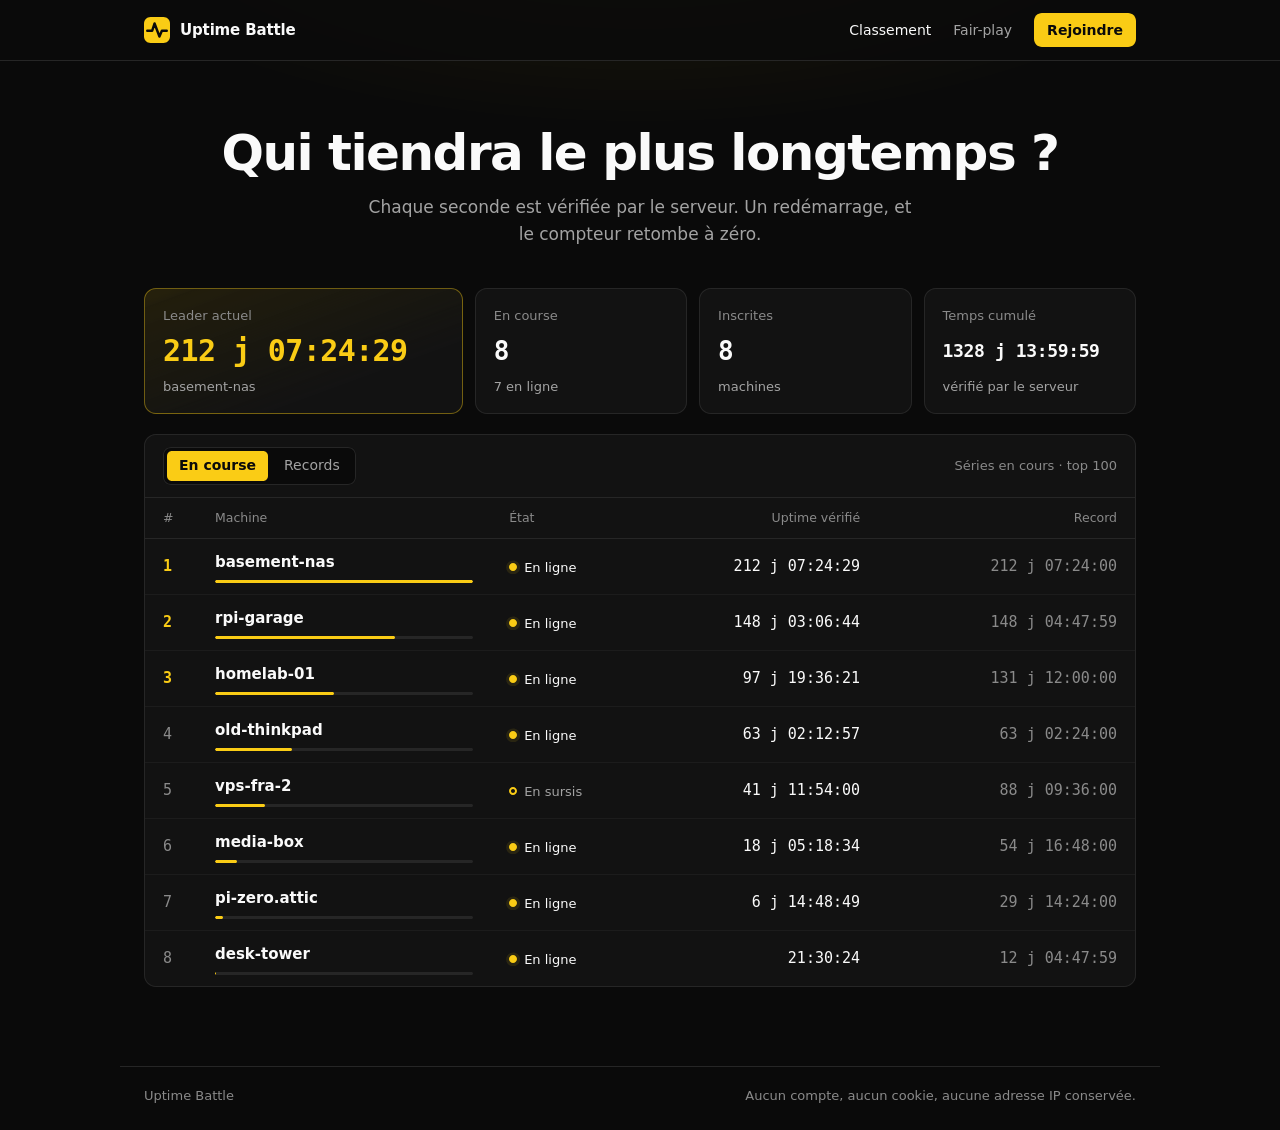
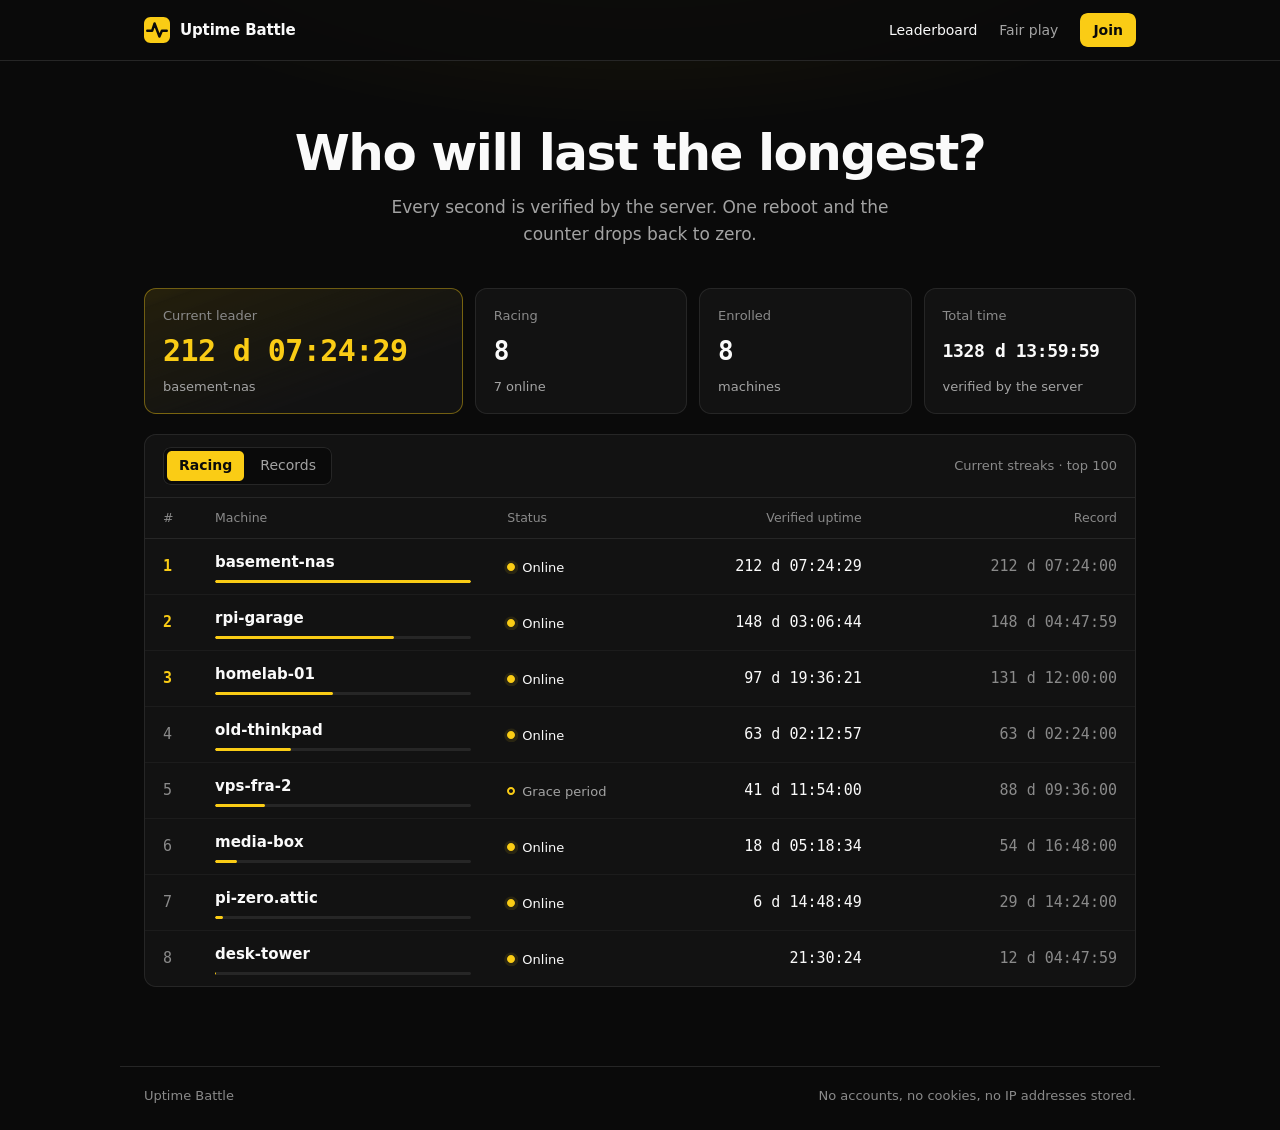
Change ui language

diff --git a/internal/server/web/templates/board.html b/internal/server/web/templates/board.html
@@ -1,39 +1,39 @@
 {{define "content"}}
 <section class="hero">
-  <h1>Qui tiendra le plus longtemps&nbsp;?</h1>
-  <p>Chaque seconde est vérifiée par le serveur. Un redémarrage, et le compteur retombe à zéro.</p>
+  <h1>Who will last the longest?</h1>
+  <p>Every second is verified by the server. One reboot and the counter drops back to zero.</p>
 </section>
 
-<section class="tiles" aria-label="Chiffres clés">
+<section class="tiles" aria-label="Key figures">
   <div class="tile tile-hero">
-    <span class="tile-label">Leader actuel</span>
+    <span class="tile-label">Current leader</span>
     {{if .Snap.Racing}}{{with index .Snap.Racing 0}}
     <span class="tile-value mono" {{if .Online}}data-tick="{{.StreakMs}}"{{end}}>{{duration .StreakMs}}</span>
     <a class="tile-sub" href="/m/{{.Name}}">{{.Name}}</a>
     {{end}}{{else}}
     <span class="tile-value mono">--:--:--</span>
-    <span class="tile-sub">Place à prendre</span>
+    <span class="tile-sub">Up for grabs</span>
     {{end}}
   </div>
-  <div class="tile"><span class="tile-label">En course</span><span class="tile-value mono">{{.Racing}}</span><span class="tile-sub">{{.Snap.Online}} en ligne</span></div>
-  <div class="tile"><span class="tile-label">Inscrites</span><span class="tile-value mono">{{.Snap.Totals.Machines}}</span><span class="tile-sub">machines</span></div>
-  <div class="tile"><span class="tile-label">Temps cumulé</span><span class="tile-value mono tile-value-sm">{{duration .Snap.Totals.TotalMs}}</span><span class="tile-sub">vérifié par le serveur</span></div>
+  <div class="tile"><span class="tile-label">Racing</span><span class="tile-value mono">{{.Racing}}</span><span class="tile-sub">{{.Snap.Online}} online</span></div>
+  <div class="tile"><span class="tile-label">Enrolled</span><span class="tile-value mono">{{.Snap.Totals.Machines}}</span><span class="tile-sub">machines</span></div>
+  <div class="tile"><span class="tile-label">Total time</span><span class="tile-value mono tile-value-sm">{{duration .Snap.Totals.TotalMs}}</span><span class="tile-sub">verified by the server</span></div>
 </section>
 
 <section class="panel">
   <div class="panel-head">
     <div class="tabs">
-      <a href="/" {{if eq .Tab "racing"}}aria-current="page"{{end}}>En course</a>
+      <a href="/" {{if eq .Tab "racing"}}aria-current="page"{{end}}>Racing</a>
       <a href="/records" {{if eq .Tab "records"}}aria-current="page"{{end}}>Records</a>
     </div>
-    <span class="muted small">{{if eq .Tab "racing"}}Séries en cours{{else}}Meilleures séries de tous les temps{{end}} · top 100</span>
+    <span class="muted small">{{if eq .Tab "racing"}}Current streaks{{else}}Best streaks of all time{{end}} · top 100</span>
   </div>
   {{if .Rows}}
   <table class="board">
     <thead><tr>
       <th class="c-rank" scope="col">#</th><th scope="col">Machine</th>
-      <th class="c-status" scope="col">État</th>
-      <th class="c-num" scope="col">{{if eq .Tab "racing"}}Uptime vérifié{{else}}Record{{end}}</th>
+      <th class="c-status" scope="col">Status</th>
+      <th class="c-num" scope="col">{{if eq .Tab "racing"}}Verified uptime{{else}}Record{{end}}</th>
       {{if eq .Tab "racing"}}<th class="c-num c-opt" scope="col">Record</th>{{end}}
     </tr></thead>
     <tbody>
@@ -45,9 +45,9 @@
         <progress class="bar" max="100" value="{{pct .BarPct}}" aria-hidden="true"></progress>
       </td>
       <td class="c-status">
-        {{if .Online}}<span class="st st-on"><i></i>En ligne</span>
-        {{else if .Racing}}<span class="st st-wait"><i></i>En sursis</span>
-        {{else}}<span class="st st-off"><i></i>Hors course</span>{{end}}
+        {{if .Online}}<span class="st st-on"><i></i>Online</span>
+        {{else if .Racing}}<span class="st st-wait"><i></i>Grace period</span>
+        {{else}}<span class="st st-off"><i></i>Out of the race</span>{{end}}
       </td>
       {{if eq $.Tab "racing"}}
       <td class="c-num mono" {{if .Online}}data-tick="{{.StreakMs}}"{{end}}>{{duration .StreakMs}}</td>
@@ -61,9 +61,9 @@
   </table>
   {{else}}
   <div class="empty">
-    <h2>{{if eq .Tab "racing"}}Personne en course pour l'instant{{else}}Aucun record pour l'instant{{end}}</h2>
-    <p>Installez l'agent et prenez la première place.</p>
-    <a class="btn" href="/install">Installer l'agent</a>
+    <h2>{{if eq .Tab "racing"}}Nobody is racing yet{{else}}No records yet{{end}}</h2>
+    <p>Install the agent and take first place.</p>
+    <a class="btn" href="/install">Install the agent</a>
   </div>
   {{end}}
 </section>

diff --git a/internal/server/web/templates/fairplay.html b/internal/server/web/templates/fairplay.html
@@ -1,20 +1,20 @@
 {{define "content"}}
 <section class="hero hero-left">
-  <h1>Fair-play</h1>
-  <p>Votre machine vous appartient, donc vous pouvez modifier l'agent. Le jeu part de ce principe : le serveur ne croit rien sur parole.</p>
+  <h1>Fair play</h1>
+  <p>Your machine belongs to you, so you can modify the agent. The game starts from that principle: the server takes nothing on trust.</p>
 </section>
 
 <section class="grid2">
-  <article class="card"><h2>Le score, c'est le temps observé</h2><p>Le classement ne lit jamais l'uptime annoncé. Il mesure le temps pendant lequel le serveur vous a vu répondre, avec sa propre horloge. Une machine qui annonce 400 jours démarre à zéro comme les autres.</p></article>
-  <article class="card"><h2>Pas de voyage dans le temps</h2><p>Personne ne gagne plus d'une seconde par seconde, et personne ne peut dépasser sa date d'inscription. Pour afficher un an, il faut tenir un an.</p></article>
-  <article class="card"><h2>Chaque battement est signé</h2><p>La clé Ed25519 est générée sur votre machine et n'en sort pas. Le serveur envoie un défi à usage unique, valable une minute. Un battement ne peut être ni forgé, ni rejoué, ni préparé à l'avance.</p></article>
-  <article class="card"><h2>Ce qui remet à zéro</h2><p>Un nouvel identifiant de démarrage du noyau, un uptime qui recule ou qui n'avance pas au rythme de l'horloge du serveur, ou plus de {{.MaxGap}} minutes de silence. Une panne du serveur ne vous pénalise pas.</p></article>
-  <article class="card"><h2>Un démarrage, une machine</h2><p>Une même session de noyau ne peut pas courir sous deux noms. Une clé copiée sur deux machines se sabote toute seule : les identifiants de démarrage alternent et la série repart à zéro.</p></article>
-  <article class="card"><h2>Inscriptions freinées</h2><p>Chaque inscription coûte une preuve de travail et reste limitée par adresse IP. Remplir le classement de faux comptes n'apporte rien : ils partent tous de zéro.</p></article>
+  <article class="card"><h2>The score is the observed time</h2><p>The leaderboard never reads the reported uptime. It measures how long the server has seen you respond, using its own clock. A machine that reports 400 days starts at zero like everyone else.</p></article>
+  <article class="card"><h2>No time travel</h2><p>Nobody gains more than one second per second, and nobody can go back past their enrolment date. To show a year, you have to last a year.</p></article>
+  <article class="card"><h2>Every heartbeat is signed</h2><p>The Ed25519 key is generated on your machine and never leaves it. The server sends a single-use challenge, valid for one minute. A heartbeat cannot be forged, replayed or prepared in advance.</p></article>
+  <article class="card"><h2>What resets the counter</h2><p>A new kernel boot id, an uptime that goes backwards or drifts from the server clock, or more than {{.MaxGap}} minutes of silence. A server outage does not penalize you.</p></article>
+  <article class="card"><h2>One boot, one machine</h2><p>A single kernel session cannot race under two names. A key copied to two machines sabotages itself: the boot ids alternate and the streak resets to zero.</p></article>
+  <article class="card"><h2>Throttled enrolment</h2><p>Each enrolment costs a proof of work and is limited per IP address. Filling the leaderboard with fake accounts gains nothing: they all start from zero.</p></article>
 </section>
 
 <section class="panel panel-text">
-  <h2>La limite, sans détour</h2>
-  <p>Un agent modifié peut mentir sur l'identifiant de démarrage et masquer un redémarrage rapide. Il peut aussi tourner sur un serveur très disponible plutôt que sur votre PC. Sans puce de confiance, aucun logiciel ne peut l'empêcher. Mais ce tricheur doit quand même garder un programme en ligne, sans interruption, pendant toute la durée affichée. Il n'obtient aucun raccourci dans le temps.</p>
+  <h2>The limit, plainly</h2>
+  <p>A modified agent can lie about the boot id and hide a quick reboot. It can also run on a highly available server instead of your PC. Without a trusted chip, no software can prevent this. But the cheater must still keep a program online, without interruption, for the whole displayed duration. There is no shortcut in time.</p>
 </section>
 {{end}}

diff --git a/internal/server/web/templates/install.html b/internal/server/web/templates/install.html
@@ -1,42 +1,42 @@
 {{define "content"}}
 <section class="hero hero-left">
-  <h1>Installer l'agent</h1>
-  <p>Un binaire statique, sans dépendance, qui tourne sans privilèges et ne lit que l'uptime et l'identifiant de démarrage du noyau. Linux amd64, arm64 et armv7.</p>
+  <h1>Install the agent</h1>
+  <p>A static binary with no dependencies. It runs without privileges and only reads the uptime and the kernel boot id. Linux amd64, arm64 and armv7.</p>
 </section>
 
 <div class="notes">
-  <p><strong>Choisissez bien votre nom.</strong> De 3 à 32 caractères parmi <code>a-z A-Z 0-9 _ . -</code>, public et définitif. L'inscription résout un petit calcul : comptez quelques secondes.</p>
+  <p><strong>Choose your name carefully.</strong> 3 to 32 characters among <code>a-z A-Z 0-9 _ . -</code>, public and permanent. Enrolment solves a small puzzle, so allow a few seconds.</p>
 </div>
 
 <section class="method">
-  <div class="method-head"><span class="pill">Recommandé</span><h2>systemd</h2></div>
-  <p>Le service démarre avec la machine et envoie un battement chaque minute. À lancer en root.</p>
-  <pre class="code"><code>curl -fsSL {{.PublicURL}}/install.sh | sudo sh -s -- --method systemd --name VOTRE-NOM</code></pre>
+  <div class="method-head"><span class="pill">Recommended</span><h2>systemd</h2></div>
+  <p>The service starts with the machine and sends a heartbeat every minute. Run as root.</p>
+  <pre class="code"><code>curl -fsSL {{.PublicURL}}/install.sh | sudo sh -s -- --method systemd --name YOUR-NAME</code></pre>
 </section>
 
 <section class="method">
   <div class="method-head"><h2>Cron</h2></div>
-  <p>Sans service ni root : un battement toutes les cinq minutes depuis votre crontab utilisateur.</p>
-  <pre class="code"><code>curl -fsSL {{.PublicURL}}/install.sh | sh -s -- --method cron --name VOTRE-NOM</code></pre>
+  <p>No service and no root: a heartbeat every five minutes from your user crontab.</p>
+  <pre class="code"><code>curl -fsSL {{.PublicURL}}/install.sh | sh -s -- --method cron --name YOUR-NAME</code></pre>
 </section>
 
 <section class="method">
   <div class="method-head"><h2>Docker</h2></div>
-  <p>Le conteneur lit l'uptime de l'hôte. Le volume garde la clé de la machine : le perdre, c'est perdre son identité.</p>
+  <p>The container reads the uptime of the host. The volume keeps the machine key: if you lose it, you lose the identity of the machine.</p>
   <pre class="code"><code>docker run -d --name uptime-battle-agent --restart unless-stopped \
   --read-only --cap-drop ALL --security-opt no-new-privileges \
-  -e UB_SERVER={{.PublicURL}} -e UB_NAME=VOTRE-NOM \
+  -e UB_SERVER={{.PublicURL}} -e UB_NAME=YOUR-NAME \
   -v uptime-battle:/var/lib/uptime-battle \
   {{.AgentImage}}</code></pre>
 </section>
 
 <section class="method">
-  <div class="method-head"><h2>Manuel</h2></div>
-  <p>Pour relire avant d'exécuter : téléchargez le binaire et vérifiez son empreinte.</p>
+  <div class="method-head"><h2>Manual</h2></div>
+  <p>To review everything before running it: download the binary and verify its checksum.</p>
   <pre class="code"><code>curl -fsSLO {{.PublicURL}}/dl/uptime-battle-agent-linux-amd64
 curl -fsSL {{.PublicURL}}/dl/SHA256SUMS | sha256sum -c --ignore-missing
 chmod +x uptime-battle-agent-linux-amd64
-./uptime-battle-agent-linux-amd64 enroll --server {{.PublicURL}} --name VOTRE-NOM
+./uptime-battle-agent-linux-amd64 enroll --server {{.PublicURL}} --name YOUR-NAME
 ./uptime-battle-agent-linux-amd64 run</code></pre>
 </section>
 {{end}}

diff --git a/internal/server/web/templates/machine.html b/internal/server/web/templates/machine.html
@@ -1,34 +1,34 @@
 {{define "content"}}
-<p class="crumb"><a href="/">Classement</a> / {{.M.Name}}</p>
+<p class="crumb"><a href="/">Leaderboard</a> / {{.M.Name}}</p>
 <div class="title-row">
   <h1>{{.M.Name}}</h1>
-  {{if .Online}}<span class="st st-on"><i></i>En ligne</span>
-  {{else if .Alive}}<span class="st st-wait"><i></i>En sursis</span>
-  {{else}}<span class="st st-off"><i></i>Hors course</span>{{end}}
+  {{if .Online}}<span class="st st-on"><i></i>Online</span>
+  {{else if .Alive}}<span class="st st-wait"><i></i>Grace period</span>
+  {{else}}<span class="st st-off"><i></i>Out of the race</span>{{end}}
 </div>
 
-<section class="tiles" aria-label="Statistiques de la machine">
+<section class="tiles" aria-label="Machine statistics">
   <div class="tile tile-hero">
-    <span class="tile-label">Uptime vérifié</span>
+    <span class="tile-label">Verified uptime</span>
     <span class="tile-value mono" {{if .Online}}data-tick="{{.StreakMs}}"{{end}}>{{duration .StreakMs}}</span>
-    <span class="tile-sub">{{if .Rank}}Rang {{.Rank}}{{else}}Non classée{{end}}</span>
+    <span class="tile-sub">{{if .Rank}}Rank {{.Rank}}{{else}}Unranked{{end}}</span>
   </div>
-  <div class="tile"><span class="tile-label">Record</span><span class="tile-value mono tile-value-sm">{{duration .M.BestMs}}</span><span class="tile-sub">meilleure série</span></div>
-  <div class="tile"><span class="tile-label">Temps cumulé</span><span class="tile-value mono tile-value-sm">{{duration .M.TotalMs}}</span><span class="tile-sub">toutes séries</span></div>
-  <div class="tile"><span class="tile-label">Uptime déclaré</span><span class="tile-value mono tile-value-sm">{{duration .M.LastUptime}}</span><span class="tile-sub">non vérifié, hors score</span></div>
+  <div class="tile"><span class="tile-label">Record</span><span class="tile-value mono tile-value-sm">{{duration .M.BestMs}}</span><span class="tile-sub">best streak</span></div>
+  <div class="tile"><span class="tile-label">Total time</span><span class="tile-value mono tile-value-sm">{{duration .M.TotalMs}}</span><span class="tile-sub">all streaks</span></div>
+  <div class="tile"><span class="tile-label">Reported uptime</span><span class="tile-value mono tile-value-sm">{{duration .M.LastUptime}}</span><span class="tile-sub">unverified, not scored</span></div>
 </section>
 
 <section class="panel">
-  <div class="panel-head"><h2>Séries terminées</h2><span class="muted small">Inscrite le {{datetime .M.CreatedAt}}</span></div>
+  <div class="panel-head"><h2>Finished streaks</h2><span class="muted small">Enrolled on {{datetime .M.CreatedAt}}</span></div>
   {{if .History}}
   <table class="board">
-    <thead><tr><th scope="col">Début</th><th class="c-opt" scope="col">Fin</th><th scope="col">Cause</th><th class="c-num" scope="col">Durée</th></tr></thead>
+    <thead><tr><th scope="col">Start</th><th class="c-opt" scope="col">End</th><th scope="col">Reason</th><th class="c-num" scope="col">Duration</th></tr></thead>
     <tbody>
     {{range .History}}
     <tr><td>{{datetime .Start}}</td><td class="c-opt">{{datetime .End}}</td><td>{{reason .Reason}}</td><td class="c-num mono">{{duration (sub .End .Start)}}</td></tr>
     {{end}}
     </tbody>
   </table>
-  {{else}}<div class="empty"><p>Aucune série terminée. Pourvu que ça dure.</p></div>{{end}}
+  {{else}}<div class="empty"><p>No finished streaks. Long may it last.</p></div>{{end}}
 </section>
 {{end}}

diff --git a/internal/server/web/templates/layout.html b/internal/server/web/templates/layout.html
@@ -1,10 +1,10 @@
 <!doctype html>
-<html lang="fr">
+<html lang="en">
 <head>
 <meta charset="utf-8">
 <meta name="viewport" content="width=device-width, initial-scale=1">
 <title>{{.Title}} · Uptime Battle</title>
-<meta name="description" content="Le classement des machines qui ne s'éteignent jamais.">
+<meta name="description" content="The leaderboard of machines that never shut down.">
 <meta name="color-scheme" content="dark">
 <link rel="icon" href="/static/logo.svg" type="image/svg+xml">
 <link rel="stylesheet" href="/static/app.css?v={{.AssetVersion}}">
@@ -14,10 +14,10 @@
 <header class="nav">
   <div class="wrap nav-in">
     <a class="brand" href="/"><img src="/static/logo.svg" alt="" width="26" height="26"><span>Uptime Battle</span></a>
-    <nav aria-label="Navigation principale">
-      <a href="/" {{if eq .Nav "board"}}aria-current="page"{{end}}>Classement</a>
-      <a href="/fair-play" {{if eq .Nav "fairplay"}}aria-current="page"{{end}}>Fair-play</a>
-      <a class="btn btn-sm" href="/install" {{if eq .Nav "install"}}aria-current="page"{{end}}>Rejoindre</a>
+    <nav aria-label="Main navigation">
+      <a href="/" {{if eq .Nav "board"}}aria-current="page"{{end}}>Leaderboard</a>
+      <a href="/fair-play" {{if eq .Nav "fairplay"}}aria-current="page"{{end}}>Fair play</a>
+      <a class="btn btn-sm" href="/install" {{if eq .Nav "install"}}aria-current="page"{{end}}>Join</a>
     </nav>
   </div>
 </header>
@@ -26,7 +26,7 @@
 </main>
 <footer class="wrap foot">
   <span>Uptime Battle</span>
-  <span>Aucun compte, aucun cookie, aucune adresse IP conservée.</span>
+  <span>No accounts, no cookies, no IP addresses stored.</span>
 </footer>
 </body>
 </html>

diff --git a/internal/server/web/static/app.js b/internal/server/web/static/app.js
@@ -6,7 +6,7 @@ function format(ms) {
   const s = Math.floor(ms / 1000);
   const d = Math.floor(s / 86400);
   const clock = `${pad(Math.floor(s / 3600) % 24)}:${pad(Math.floor(s / 60) % 60)}:${pad(s % 60)}`;
-  return d > 0 ? `${d} j ${clock}` : clock;
+  return d > 0 ? `${d} d ${clock}` : clock;
 }
 
 const counters = [...document.querySelectorAll("[data-tick]")].map((el) => ({ el, base: Number(el.dataset.tick) }));
@@ -28,11 +28,11 @@ for (const block of document.querySelectorAll("pre.code")) {
   const button = document.createElement("button");
   button.type = "button";
   button.className = "copy";
-  button.textContent = "Copier";
+  button.textContent = "Copy";
   button.addEventListener("click", async () => {
     await navigator.clipboard.writeText(block.querySelector("code").textContent);
-    button.textContent = "Copié";
-    setTimeout(() => (button.textContent = "Copier"), 1500);
+    button.textContent = "Copied";
+    setTimeout(() => (button.textContent = "Copy"), 1500);
   });
   block.append(button);
 }

diff --git a/internal/server/web/templates/notfound.html b/internal/server/web/templates/notfound.html
@@ -1,7 +1,7 @@
 {{define "content"}}
 <div class="empty empty-page">
   <h1>404</h1>
-  <p>Cette page a redémarré, et elle n'est jamais revenue.</p>
-  <a class="btn" href="/">Retour au classement</a>
+  <p>This page rebooted and never came back.</p>
+  <a class="btn" href="/">Back to the leaderboard</a>
 </div>
 {{end}}

diff --git a/internal/server/web.go b/internal/server/web.go
@@ -34,22 +34,22 @@ var agentFiles = map[string]bool{
 type page struct{ tmpl *template.Template }
 
 var reasonLabels = map[string]string{
-	ReasonReboot:  "Redémarrage",
-	ReasonGap:     "Silence trop long",
-	ReasonAnomaly: "Uptime incohérent",
+	ReasonReboot:  "Reboot",
+	ReasonGap:     "Silent for too long",
+	ReasonAnomaly: "Inconsistent uptime",
 }
 
 func formatDuration(ms int64) string {
 	sec := ms / 1000
 	d, h, m, s := sec/86400, sec/3600%24, sec/60%60, sec%60
 	if d > 0 {
-		return fmt.Sprintf("%d j %02d:%02d:%02d", d, h, m, s)
+		return fmt.Sprintf("%d d %02d:%02d:%02d", d, h, m, s)
 	}
 	return fmt.Sprintf("%02d:%02d:%02d", h, m, s)
 }
 
 func formatTime(ms int64) string {
-	return time.UnixMilli(ms).UTC().Format("02/01/2006 15:04 UTC")
+	return time.UnixMilli(ms).UTC().Format("2006-01-02 15:04 UTC")
 }
 
 func (s *Server) loadWeb() error {
@@ -117,7 +117,7 @@ func (s *Server) board(w http.ResponseWriter, tab string) {
 		leaderMs = snap.Racing[0].StreakMs
 	}
 	s.render(w, http.StatusOK, "board", map[string]any{
-		"Title": "Classement", "Nav": "board", "Tab": tab, "Rows": rows, "Snap": snap,
+		"Title": "Leaderboard", "Nav": "board", "Tab": tab, "Rows": rows, "Snap": snap,
 		"Racing": len(snap.Ranks), "LeaderMs": leaderMs,
 		"LeaderOnline": len(snap.Racing) > 0 && snap.Racing[0].Online,
 	})
@@ -167,13 +167,13 @@ func (s *Server) handleMachine(w http.ResponseWriter, r *http.Request) {
 
 func (s *Server) handleInstall(w http.ResponseWriter, _ *http.Request) {
 	s.render(w, http.StatusOK, "install", map[string]any{
-		"Title": "Installer l'agent", "Nav": "install", "AgentImage": s.cfg.AgentImage,
+		"Title": "Install the agent", "Nav": "install", "AgentImage": s.cfg.AgentImage,
 	})
 }
 
 func (s *Server) handleFairPlay(w http.ResponseWriter, _ *http.Request) {
 	s.render(w, http.StatusOK, "fairplay", map[string]any{
-		"Title": "Fair-play", "Nav": "fairplay", "MaxGap": int(s.cfg.MaxGap.Minutes()),
+		"Title": "Fair play", "Nav": "fairplay", "MaxGap": int(s.cfg.MaxGap.Minutes()),
 	})
 }
 
@@ -182,7 +182,7 @@ func (s *Server) handleNotFound(w http.ResponseWriter, r *http.Request) {
 		writeError(w, http.StatusNotFound, "not found")
 		return
 	}
-	s.render(w, http.StatusNotFound, "notfound", map[string]any{"Title": "Page introuvable"})
+	s.render(w, http.StatusNotFound, "notfound", map[string]any{"Title": "Page not found"})
 }
 
 func (s *Server) handleInstallScript(w http.ResponseWriter, _ *http.Request) {

diff --git a/README.md b/README.md
@@ -7,8 +7,6 @@ The project has two parts:
 - The agent: a static Go binary of about 6 MB, with no dependencies and no privileges. It reads `/proc/uptime` and the kernel boot id, nothing else.
 - The web application: a Go binary with an SQLite database, shipped in a `scratch` image that also contains the agent binaries it distributes.
 
-The web interface is in French.
-
 ![Leaderboard page of the web interface, with demo data](docs/screenshot.png)
 
 ## Deployment
